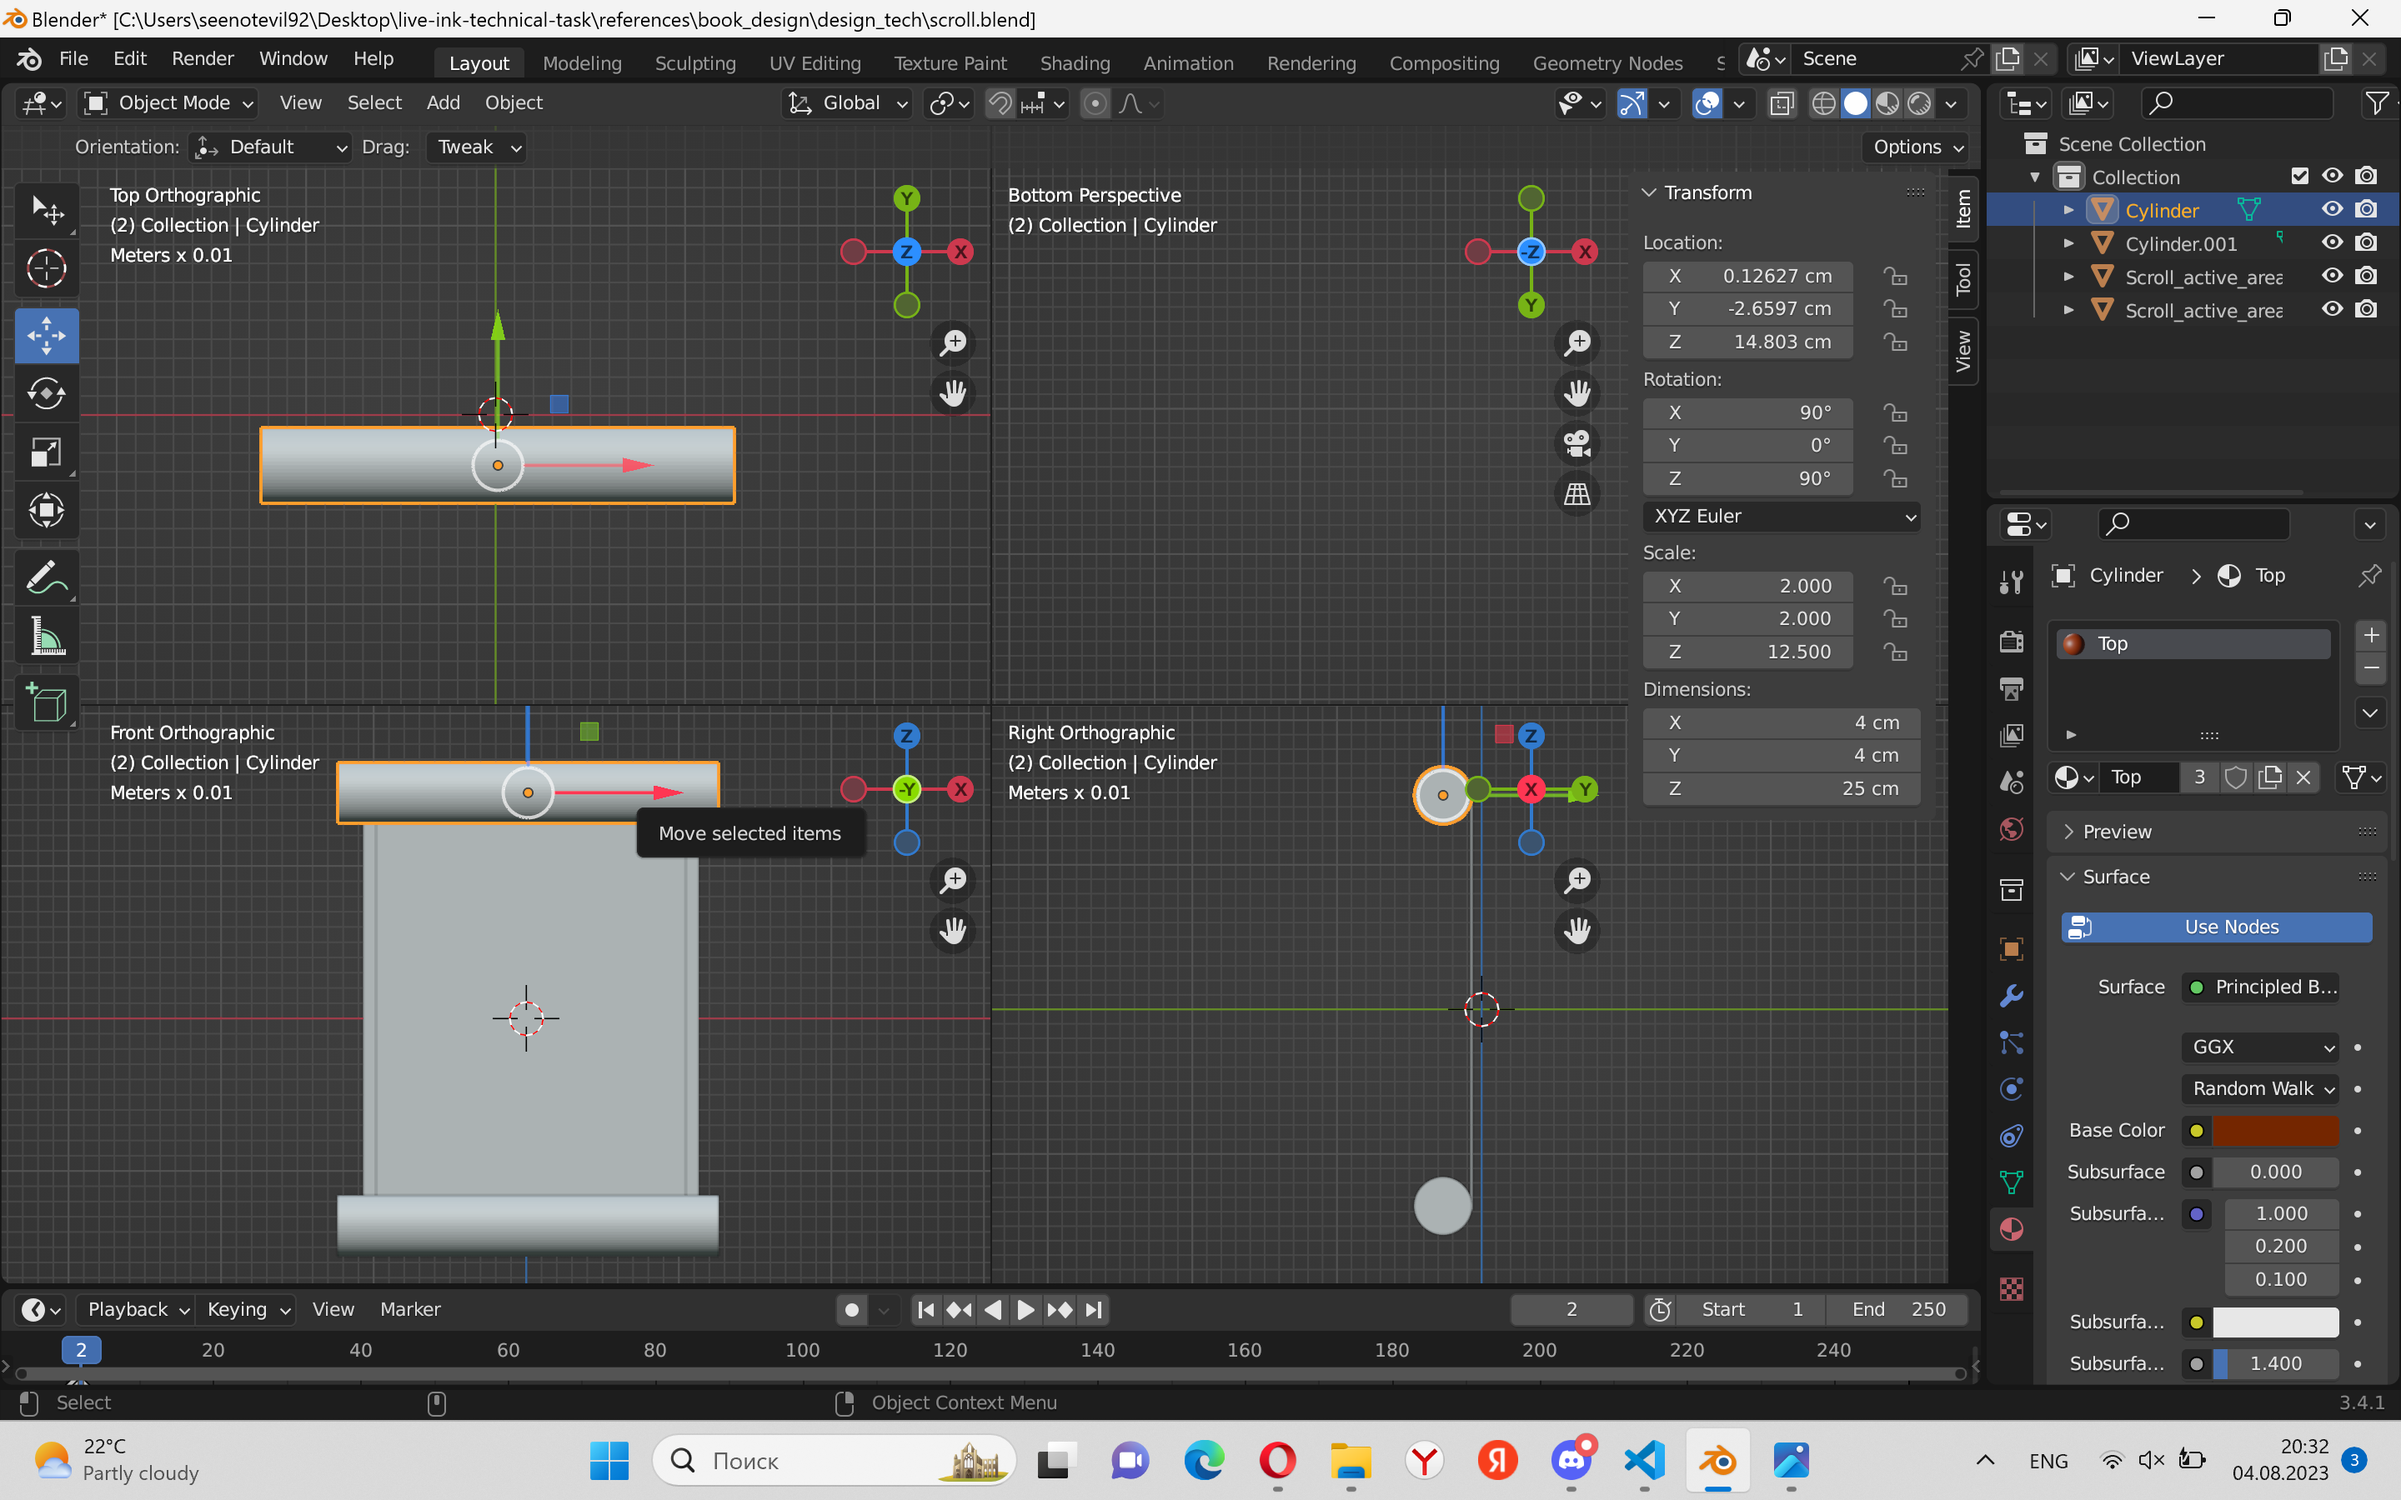
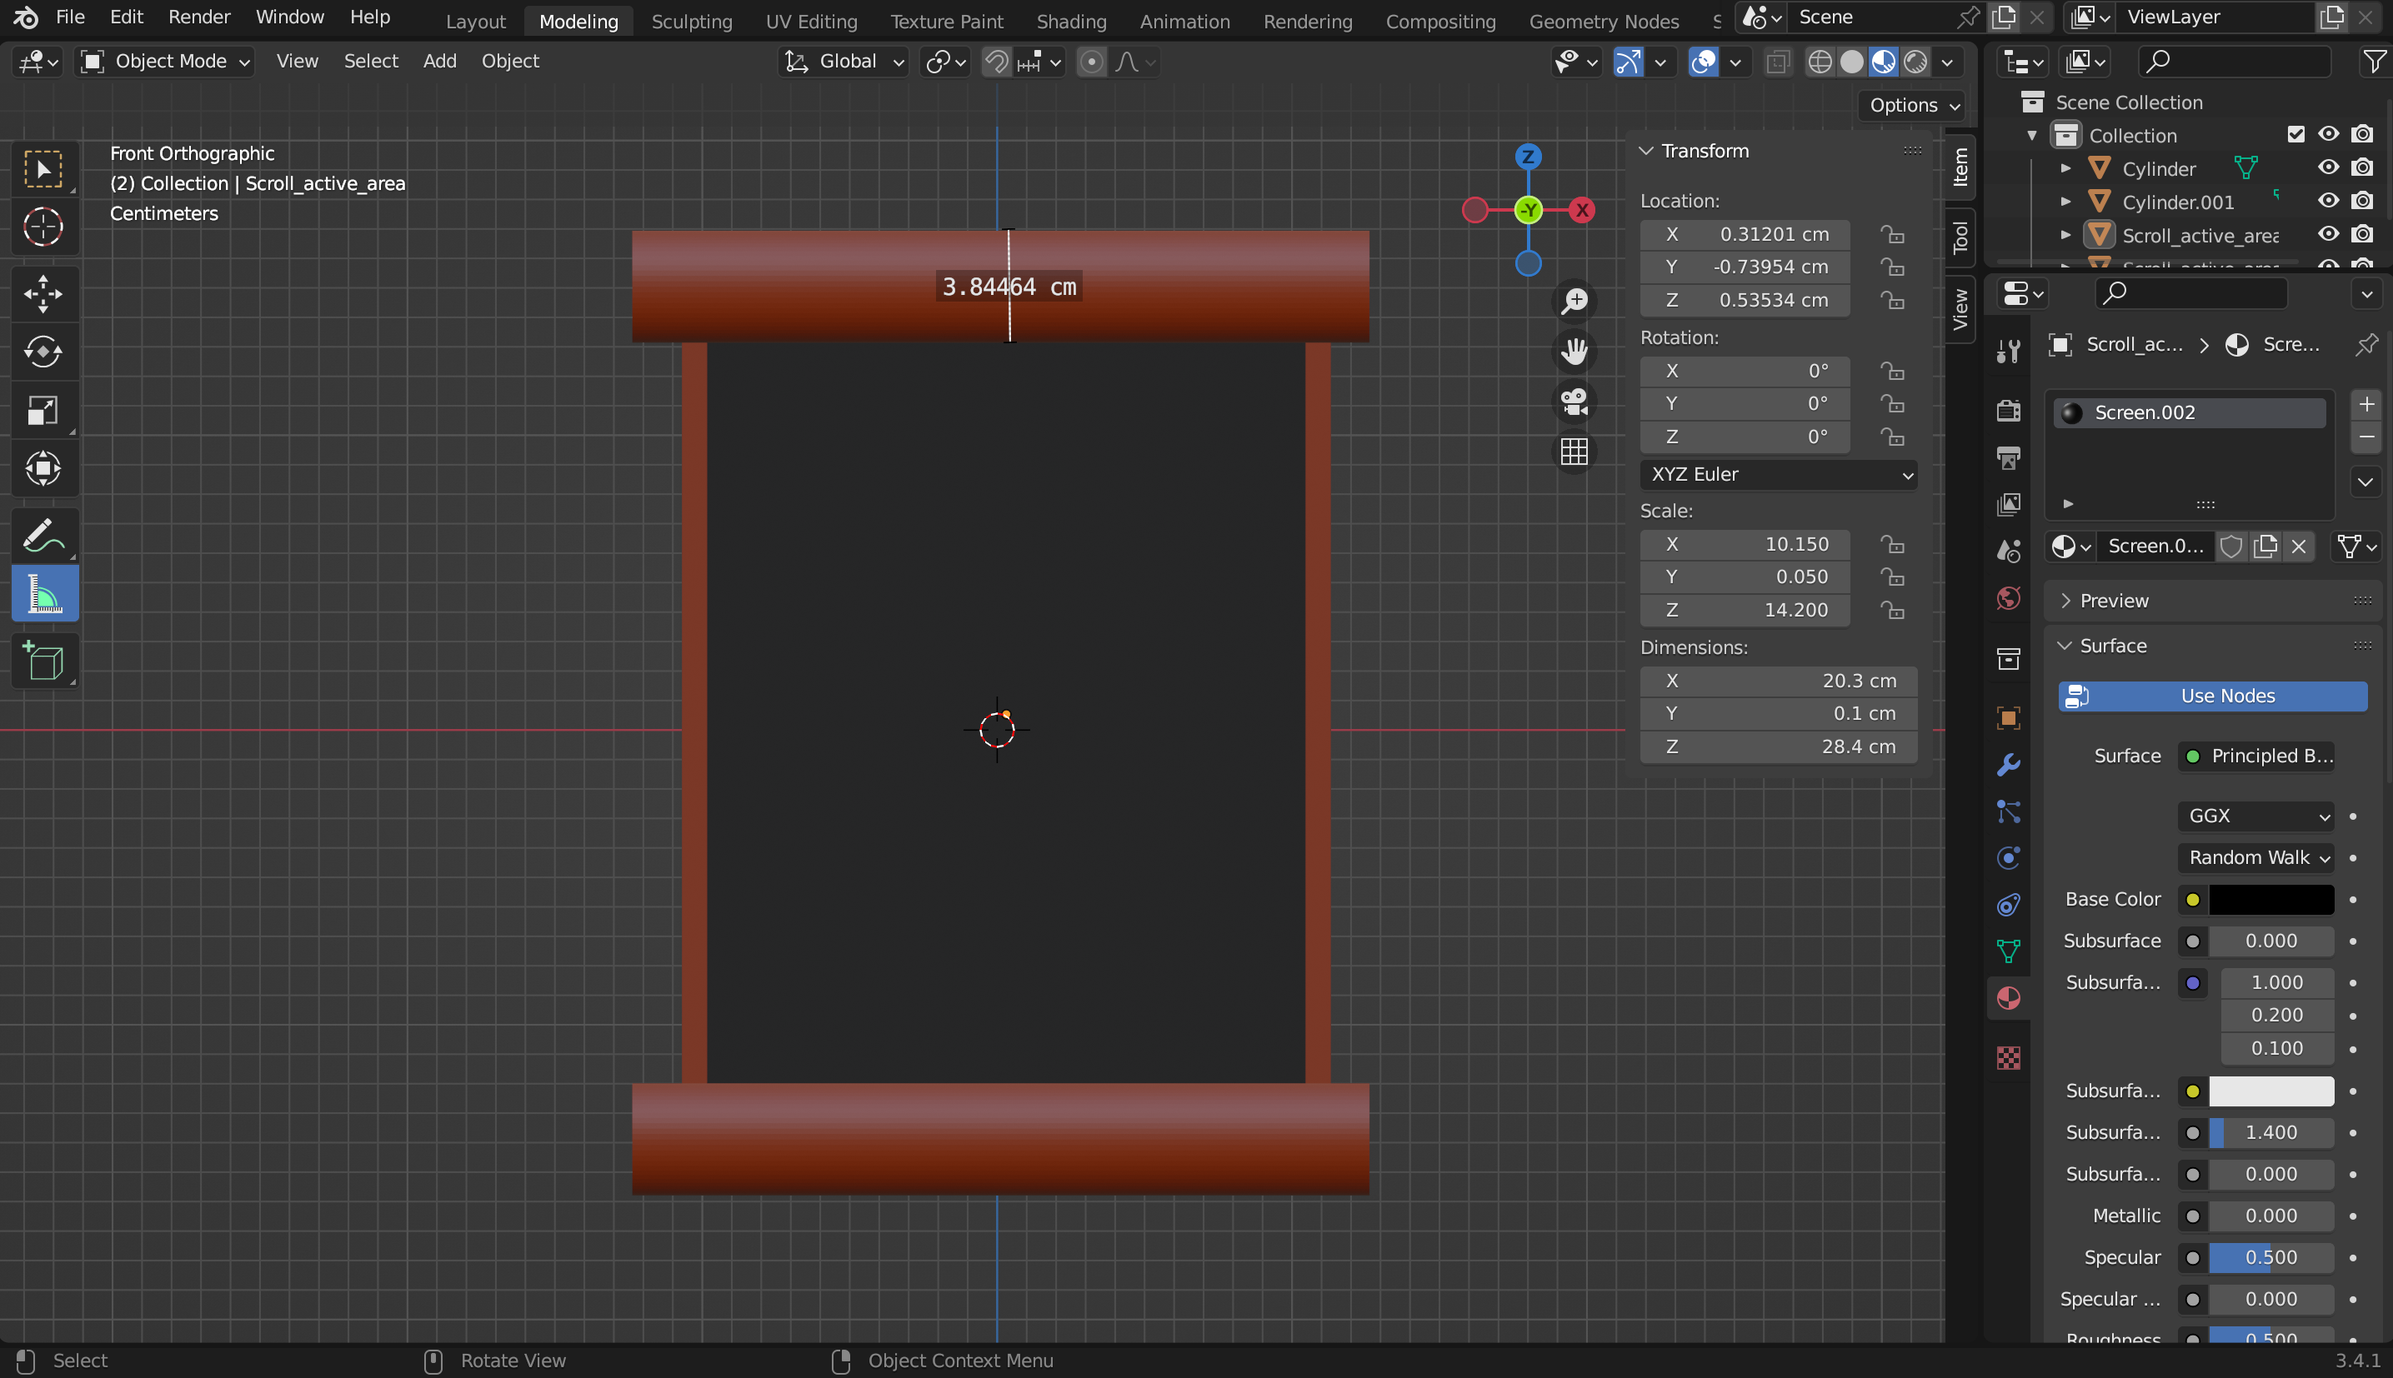
add

diff --git a/technical_task_scroll/tech_task_for_modeling_scroll.md b/technical_task_scroll/tech_task_for_modeling_scroll.md
@@ -17,17 +17,33 @@
 ### Размеры
 1 - Верхняя планка - радиус 4 см - ширина 24 см
 2 - Верхняя планка - радиус 4 см - ширина 24 см
-3 - Активная область 20.3 cm - высота 27.1 cm. Она плотно прилегает к планкам сверху и снизу
+3 - Активная область 20.3 см - высота 28.4 см. Она плотно прилегает к планкам сверху и снизу
 4 - Обрамление 0.85 см по краям
 
-<img src="https://github.com/SeeNotEvil/live-ink-technical-task/blob/main/references/technical_task_scroll/size_plank.png" width="400"/>   
-<img src="https://github.com/SeeNotEvil/live-ink-technical-task/blob/main/references/technical_task_scroll/size_active_area.png" width="400"/>   
+#### Активная область
+<img src="https://github.com/SeeNotEvil/live-ink-technical-task/blob/main/references/technical_task_scroll/size_active_area.png" width="400"/>  
+28.4 см   
+<img src="https://github.com/SeeNotEvil/live-ink-technical-task/blob/main/references/technical_task_scroll/size_active_area_2.png" width="400"/>  
+20.3 см   
+
+#### Планки   
+<img src="https://github.com/SeeNotEvil/live-ink-technical-task/blob/main/references/technical_task_scroll/size_plank.png" width="400"/> 
+3.8 см     
+<img src="https://github.com/SeeNotEvil/live-ink-technical-task/blob/main/references/technical_task_scroll/size_plank.png" width="400"/>
+25 см   
+
+#### Обрамление   
 <img src="https://github.com/SeeNotEvil/live-ink-technical-task/blob/main/references/technical_task_scroll/size_border.png" width="400"/>   
+0.85 см   
 
 ### Внешний вид
 Свиток должен быть вертикальный.   
 На вверху верхней планки должна быть небольшая фигура дракона. Дракон не должен перекрывать активную зону свитка.   
 Свиток в открытом виде должен ставится на подставку.   
+
+#### Структура   
+<img src="https://github.com/SeeNotEvil/live-ink-technical-task/blob/main/references/technical_task_scroll/structure.png" width="400"/>   
+<img src="https://github.com/SeeNotEvil/live-ink-technical-task/blob/main/references/technical_task_scroll/structure_2.png" width="400"/>   
 
 #### Референс как примерно должна выглядеть верхнее и нижняя планка.
 <img src="https://github.com/SeeNotEvil/live-ink-technical-task/blob/main/references/technical_task_scroll/plank_scroll.png" width="400"/>   
@@ -35,7 +51,7 @@
 <img src="https://github.com/SeeNotEvil/live-ink-technical-task/blob/main/references/technical_task_scroll/plank_scroll_3.png" width="400"/>   
 <img src="https://github.com/SeeNotEvil/live-ink-technical-task/blob/main/references/technical_task_scroll/plank_scroll_4.png" width="400"/>   
 <img src="https://github.com/SeeNotEvil/live-ink-technical-task/blob/main/references/technical_task_scroll/plank_scroll_5.png" width="400"/>   
-По расцветке как 1-2-3 - по рисунку как 4 и 5    
+По расцветке как 1-2-3, по рисунку как 4 и 5    
 Обрамление доллжно выглядеть примерно так же, в виде орнамента.   
 Наконечники на верхних и нижних планках примерно вот такие   
 <img src="https://github.com/SeeNotEvil/live-ink-technical-task/blob/main/references/technical_task_scroll/plank_border_5.png" width="400"/>   
@@ -53,7 +69,6 @@
 
 2) Белый пергамент.
 <img src="https://github.com/SeeNotEvil/live-ink-technical-task/blob/main/references/technical_task_scroll/white_pergament.png" width="400"/>
-
 
 ### Подставка
 На подставке стоит сам свиток в развернутом виде.
